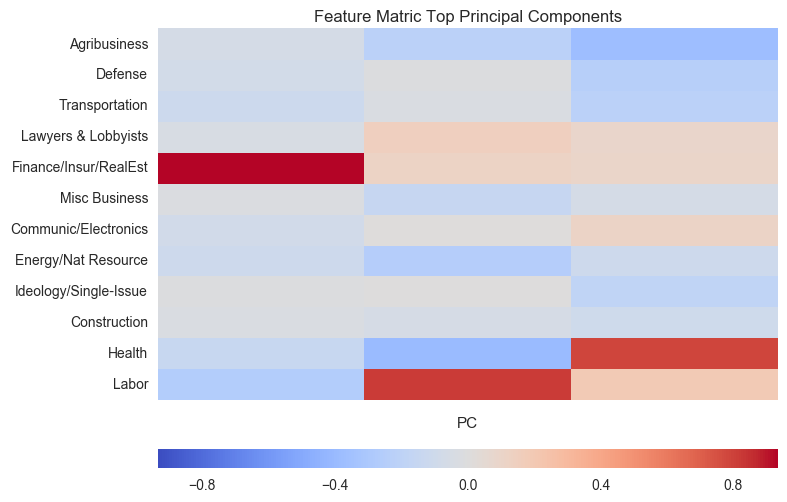
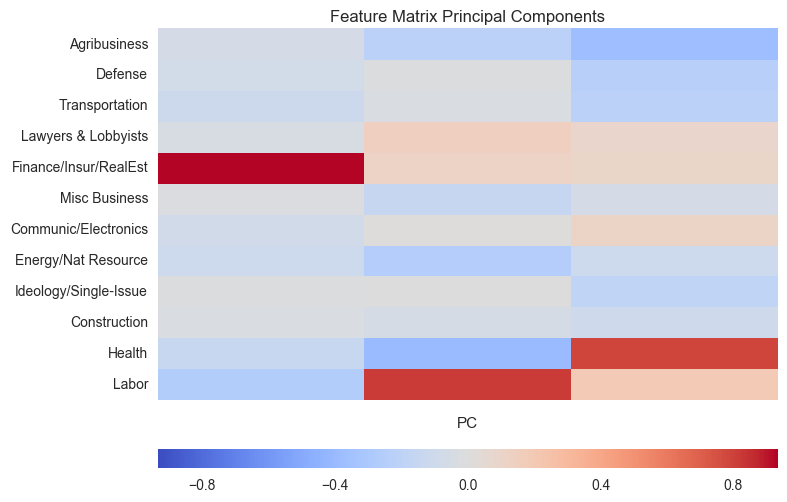
add SV plotting script and update poster

Changed region(s): [[0.3964, 0.0, 0.7929, 0.0598]]

diff --git a/keri/scripts/plt_dm_comps.py b/keri/scripts/plt_dm_comps.py
@@ -1,0 +1,57 @@
+#!/bin/env python
+
+import matplotlib
+matplotlib.use('Agg')
+
+import argparse
+import pandas as pd
+import numpy as np
+import matplotlib.pyplot as plt
+import seaborn as sns
+import IPython
+
+parser = argparse.ArgumentParser(description='plot pd dataframe as heatmap')
+parser.add_argument('--df', type=str, help='pd df pickle')
+parser.add_argument('--opref', type=str, help='name of output file directory',
+        default='../../data/features/visualize/')
+args = parser.parse_args()
+
+sns.set(font_scale=1.0)
+sns.set(font='Open Sans')
+sns.set_style(style='white')
+cm = 'coolwarm'
+
+def main():
+    opref = args.opref
+
+    data_file = args.df
+    data_name = data_file.split('/')[-1].split('.')[0]
+    df = pd.read_pickle(data_file)
+    n_cat = df.shape[-1]
+    cats = df.columns
+
+    svs = np.genfromtxt('../out_data/support_vectors.dat')
+    lbls = np.zeros(df.shape[0])
+    cat_numerical = np.arange(df.shape[1])
+    for ndx, i in enumerate(svs):
+        lbls[i] = ndx+1
+    cp = sns.color_palette(cm, n_colors=len(lbls))
+    df['SV'] = lbls
+
+    xnp = np.array(df)
+    for ndx, i in enumerate(xnp):
+        if i[-1] == 0:
+            plt.plot(i[:-1], cat_numerical, 's', color='.9', alpha=.1)
+    for ndx, i in enumerate(xnp):
+        if i[-1] != 0:
+            plt.plot(i[:-1], cat_numerical, 'o', color=cp[ndx])
+
+    sns.despine()
+    plt.ylim([-1,12])
+    plt.yticks(cat_numerical, cats, rotation='horizontal')
+    plt.title('Support Vector Features')
+    plt.xlabel('Normalized Contribution')
+    plt.savefig(opref + data_name + '_SVs.png', dpi=400, bbox_inches='tight')
+
+if __name__ == '__main__':
+    main()    

diff --git a/keri/scripts/plt_dm.py b/keri/scripts/plt_dm.py
@@ -59,7 +59,7 @@ def main():
         ax = sns.heatmap(pc_df, cmap=cm, ax=ax, 
                 xticklabels=False, cbar_ax=cbar_ax,
                 cbar_kws={'orientation': 'horizontal'})
-        ax.set_title('Feature Matric Top Principal Components')
+        ax.set_title('Feature Matrix Principal Components')
         plt.yticks(rotation=0)
         ax.set_xlabel('PC')
         fig.savefig(opref + data_name + '_pc_hm.png', bbox_inches='tight')

diff --git a/keri/scripts/os_cid_call.py b/keri/scripts/os_cid_call.py
@@ -75,7 +75,7 @@ def main(args):
     top sectors to a candidate/member for indicated period
     '''
     try:
-        top_sect = CRP.candSector.get(cid=cid, year=yr)
+        top_sect = CRP.candSector.get(cid=cid, cycle=yr)
         sect_fin_data = group_data(cats, top_sect, args.norm)
     except:
         top_sect = np.empty(len(cats))
